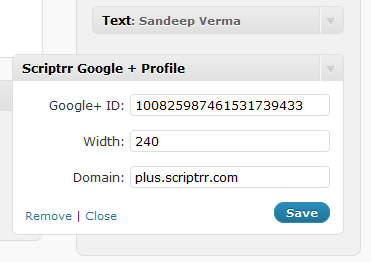
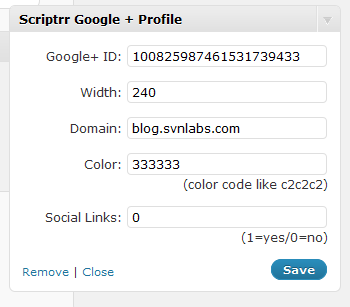
git-svn-id: https://plugins.svn.wordpress.org/scriptrr-google-profile/trunk@412062 b8457f37-d9ea-0310-8a92-e5e31aec5664

Changed region(s): [[0.0, 0.5191, 0.9429, 0.9466], [0.0286, 0.2443, 0.9429, 0.458], [0.0, 0.0305, 0.9429, 0.2137]]

diff --git a/scriptrr_google_plus_profile_widget.php b/scriptrr_google_plus_profile_widget.php
@@ -33,6 +33,8 @@ function widget_scriptrr_google_plus_profile_widget_init() {
 		$userid = $options['userid'];
 		$width = $options['width'];
 		$host = $options['host'];
+		$links = $options['links'];
+		$color = $options['color'];
 		$title = ($options['title'] != "") ? $before_title.$options['title'].$after_title : "";  
 		$widget = html_entity_decode($options['widget']);
 		
@@ -63,6 +65,8 @@ function widget_scriptrr_google_plus_profile_widget_init() {
 				'userid' => '100825987461531739433',
 				'width' => '200',
 				'host' => 'plus.scriptrr.com',
+				'color' => 'c2c2c2',
+				'links' => '0',
 				
 			);
 			
@@ -75,10 +79,13 @@ function widget_scriptrr_google_plus_profile_widget_init() {
 			$options['width'] = strip_tags(stripslashes($_POST['scriptrr_google_plus_profile_widget-width']));
 			$options['host'] = strip_tags(stripslashes($_POST['scriptrr_google_plus_profile_widget-host']));
 			
+			$options['color'] = strip_tags(stripslashes($_POST['scriptrr_google_plus_profile_widget-color']));
+			$options['links'] = strip_tags(stripslashes($_POST['scriptrr_google_plus_profile_widget-links']));
+			
 						
 
 			$options['title'] = 'Follow me on Google+';
-			$options['widget'] = '<iframe src="http://plus.scriptrr.com/scriptrr.php?id='.$options['userid'].'&host='.$options['host'].'&width='.$options['width'].'" frameborder="0" scrolling="no" height="350" width="'.$options['width'].'"></iframe>';			
+			$options['widget'] = '<iframe src="http://plus.scriptrr.com/scriptrr.php?id='.$options['userid'].'&host='.$options['host'].'&width='.$options['width'].'&color='.$options['color'].'&links='.$options['links'].'" frameborder="0" scrolling="no" height="350" width="'.$options['width'].'"></iframe>';			
 			
 			
 			//  echo $result;
@@ -92,6 +99,9 @@ function widget_scriptrr_google_plus_profile_widget_init() {
 		$userid = htmlspecialchars($options['userid'], ENT_QUOTES);
 		$width = htmlspecialchars($options['width'], ENT_QUOTES);
 		$host = htmlspecialchars($options['host'], ENT_QUOTES);
+		
+		$color = htmlspecialchars($options['color'], ENT_QUOTES);
+		$links = htmlspecialchars($options['links'], ENT_QUOTES);
 
 		
 		// Here is our little form segment. Notice that we don't need a
@@ -100,6 +110,13 @@ function widget_scriptrr_google_plus_profile_widget_init() {
 		echo '<p style="text-align:right;"><label for="scriptrr_google_plus_profile_widget-userid">' . __('Google+ ID:', 'widgets') . ' <input style="width: 200px;" id="scriptrr_google_plus_profile_widget-userid" name="scriptrr_google_plus_profile_widget-userid" type="text" value="'.$userid.'" /></label></p>';
 		echo '<p style="text-align:right;"><label for="scriptrr_google_plus_profile_widget-width">' . __('Width:', 'widgets') . ' <input style="width: 200px;" id="scriptrr_google_plus_profile_widget-width" name="scriptrr_google_plus_profile_widget-width" type="text" value="'.$width.'" /></label></p>';
 		echo '<p style="text-align:right;"><label for="scriptrr_google_plus_profile_widget-host">' . __('Domain:', 'widgets') . ' <input style="width: 200px;" id="scriptrr_google_plus_profile_widget-host" name="scriptrr_google_plus_profile_widget-host" type="text" value="'.$host.'" /></label></p>';
+		
+		
+		echo '<p style="text-align:right;"><label for="scriptrr_google_plus_profile_widget-color">' . __('Color:', 'widgets') . ' <input style="width: 200px;" id="scriptrr_google_plus_profile_widget-color" name="scriptrr_google_plus_profile_widget-color" type="text" value="'.$color.'" /></label><br>(color code like c2c2c2)</p>';
+		
+		
+		echo '<p style="text-align:right;"><label for="scriptrr_google_plus_profile_widget-links">' . __('Social Links:', 'widgets') . ' <input style="width: 200px;" id="scriptrr_google_plus_profile_widget-links" name="scriptrr_google_plus_profile_widget-links" type="text" value="'.$links.'" /></label><br>(1=yes/0=no)</p>';
+		
 
 		echo '<input type="hidden" id="scriptrr_google_plus_profile_widget-submit" name="scriptrr_google_plus_profile_widget-submit" value="1" />';
 	}
